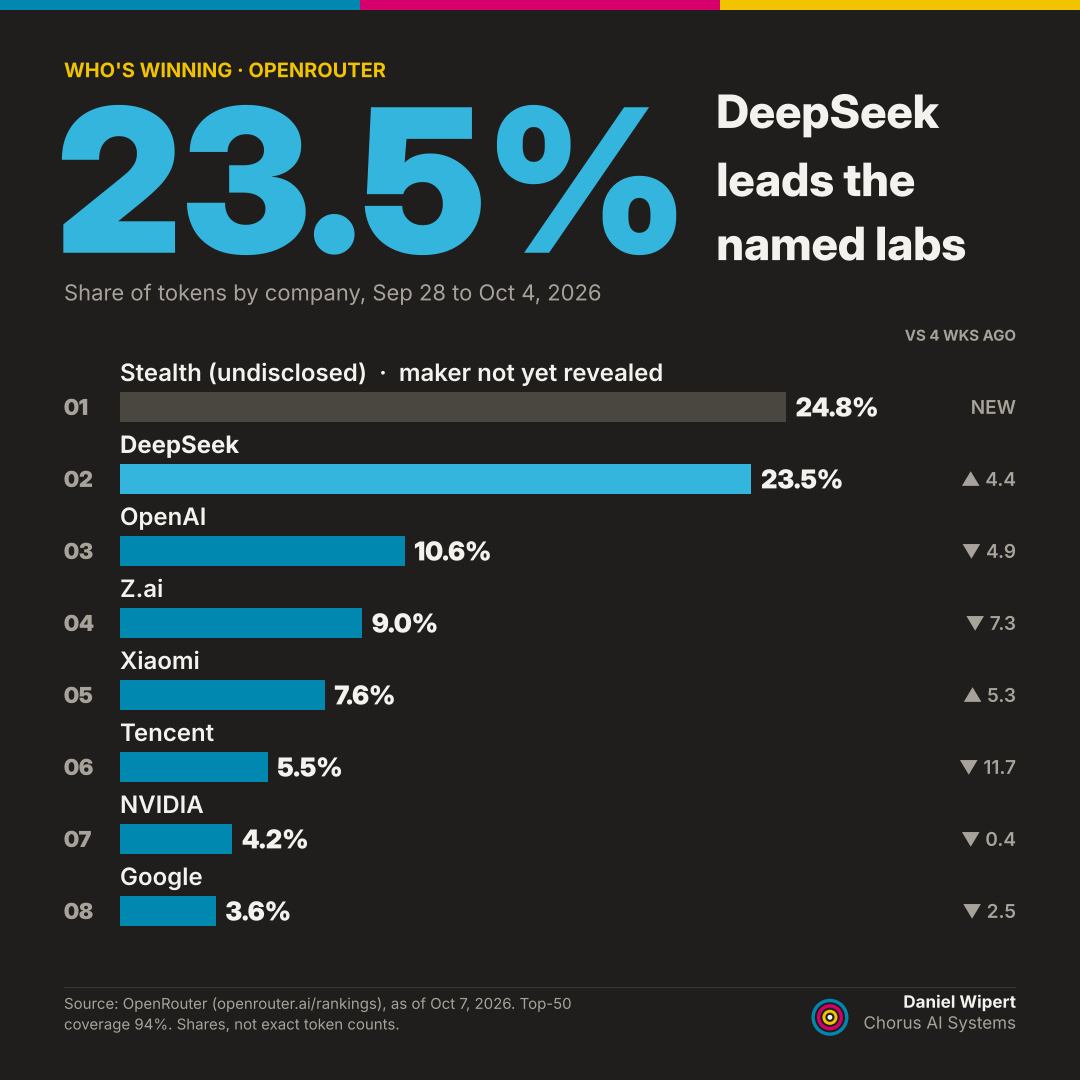
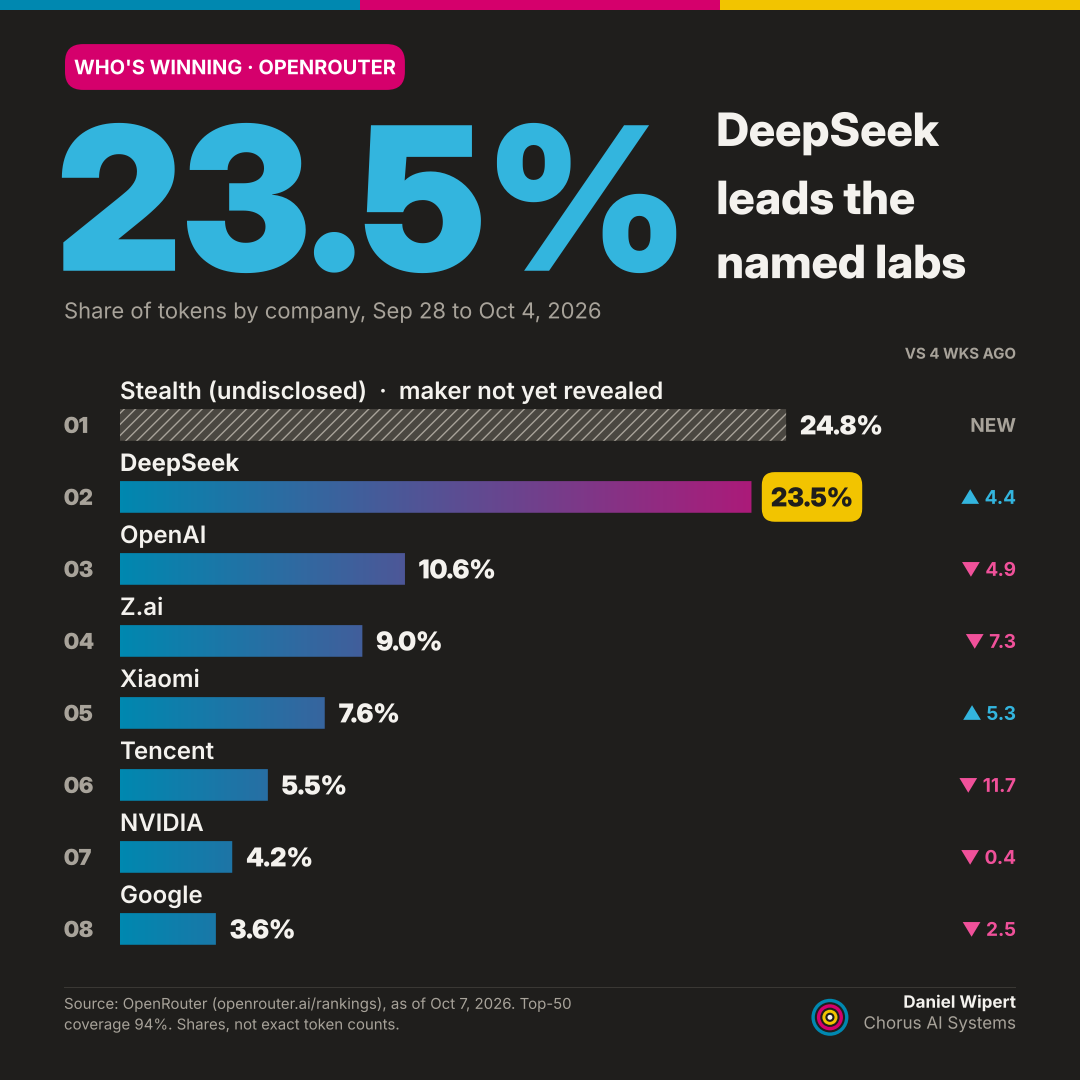
Color pass on the charts
Open band as a Chorus blue gradient, closed band in Chorus yellow (deeper
gold on the light theme), pill labels for end values and the kicker,
charcoal header block on the light theme. Leaderboard: blue-to-magenta
gradient bars, hatched stealth bar, leader value in a pill, colored up/down
arrows. All pairs pass the color-blind check.

Claude-Session: https://claude.ai/code/session_01Hjp52GNvqdFoEAL6w7QVr9

diff --git a/charts/share.py b/charts/share.py
@@ -4,7 +4,10 @@ Phase 1 draws weights: open-weight on the bottom, closed-weight on top,
 with a dashed 50% line. Stealth models are left out of the split.
 """
 
+import matplotlib.dates as mdates
+import numpy as np
 import pandas as pd
+from matplotlib.colors import LinearSegmentedColormap
 
 from charts.frame import Frame, pt
 
@@ -30,7 +33,7 @@ def month_ticks(ax, start, end, frame):
     months = months[months >= start]
     labels = [m.strftime("%b\n%Y") if (m.month == 1 or i == 0) else m.strftime("%b")
               for i, m in enumerate(months)]
-    ax.set_xticks(months, labels)
+    ax.set_xticks(mdates.date2num(months), labels)
     for label in ax.get_xticklabels():
         label.set_fontproperties(frame.font("regular", frame.sizes["axis"]))
         label.set_color(frame.colors["text_muted"])
@@ -38,11 +41,13 @@ def month_ticks(ax, start, end, frame):
 
 
 def callout(ax, frame, xy, text, offset, ha):
-    """Annotation with a thin leader line, in the text color."""
+    """Annotation with a thin leader line. It sits on the closed band, so it uses
+    the ink color that reads on that band."""
+    ink = frame.colors["closed_pill"][1]
     ax.annotate(text, xy, xytext=offset, textcoords="offset points", ha=ha, va="bottom",
-                color=frame.colors["text"], linespacing=1.2,
-                fontproperties=frame.font("semibold", frame.sizes["callout"]),
-                arrowprops={"arrowstyle": "-", "color": frame.colors["text"], "lw": 1,
+                color=ink, linespacing=1.2,
+                fontproperties=frame.font("bold", frame.sizes["callout"]),
+                arrowprops={"arrowstyle": "-", "color": ink, "lw": 1.2,
                             "shrinkA": 4, "shrinkB": 8})
 
 
@@ -62,41 +67,52 @@ def render(weekly, footer_text, style, size):
     frame.footer(footer_text)
     ax = frame.chart_area(left_px=0, right_px=style["layout"]["end_label_space"], below_px=70)
 
-    ax.stackplot(x, open_, closed, colors=[colors["open"], colors["closed"]], linewidth=0)
-    ax.plot(x, open_, color=colors["background"], linewidth=2.5)  # gap between bands
-    ax.axhline(0.5, color=colors["reference_line"], linewidth=1.2, linestyle=(0, (5, 4)),
-               alpha=0.8)
-    ax.text(x[0], 0.5, " 50%", va="bottom", ha="left", color=colors["text"],
+    xn = mdates.date2num(x)
+    ax.fill_between(xn, open_, 1, color=colors["closed"], linewidth=0)
+    # Open band: vertical gradient, clipped to the area under the open line
+    shape = ax.fill_between(xn, 0, open_, color="none", linewidth=0)
+    ramp = LinearSegmentedColormap.from_list("open", colors["open_gradient"])
+    image = ax.imshow(np.linspace(0, 1, 256).reshape(-1, 1), cmap=ramp, origin="lower",
+                      extent=[xn[0], xn[-1], 0, 1], aspect="auto", zorder=1)
+    image.set_clip_path(shape.get_paths()[0], transform=ax.transData)
+    ax.plot(xn, open_, color=colors["background"], linewidth=2.5, zorder=2)
+    ink = colors["closed_pill"][1]  # reads on the closed band
+    ax.axhline(0.5, color=ink, linewidth=1.2, linestyle=(0, (5, 4)), alpha=0.8, zorder=3)
+    ax.text(xn[0], 0.5, " 50%", va="bottom", ha="left", color=ink, zorder=3,
             fontproperties=frame.font("semibold", sizes["axis"]))
 
-    ax.set_xlim(x[0], x[-1])
+    ax.set_xlim(xn[0], xn[-1])
     ax.set_ylim(0, 1)
     ax.set_yticks([])
     month_ticks(ax, x[0], x[-1], frame)
 
-    # End labels: latest share of each band at its right edge
+    # End labels: latest share of each band in a pill at its right edge
     edge = ax.get_yaxis_transform()
-    for name, mid, value, color in [
-            (text["open"], open_.iloc[-1] / 2, open_.iloc[-1], colors["open_label"]),
+    for name, mid, value, (fill, ink) in [
+            (text["open"], open_.iloc[-1] / 2, open_.iloc[-1], colors["open_pill"]),
             (text["closed"], open_.iloc[-1] + closed.iloc[-1] / 2, closed.iloc[-1],
-             colors["closed_label"])]:
-        ax.text(1.04, mid + 0.02, f"{value:.0%}", transform=edge, va="bottom", ha="left",
-                color=color, fontproperties=frame.font("hero", sizes["end_label"] * 1.4))
-        ax.text(1.04, mid, name.upper(), transform=edge, va="top", ha="left", color=color,
-                fontproperties=frame.font("bold", sizes["kicker"]))
+             colors["closed_pill"])]:
+        ax.text(1.05, mid, f"{value:.0%}\n{name.upper()}", transform=edge, va="center",
+                ha="left", color=ink, linespacing=1.0, multialignment="left",
+                fontproperties=frame.font("hero", sizes["end_label"]),
+                bbox={"boxstyle": "round,pad=0.5,rounding_size=0.6", "facecolor": fill,
+                      "edgecolor": "none"})
 
     # Crossover: magenta dot where open passed 50% for good, with a callout
     week = lasting_crossover(open_)
     if week is not None:
+        week = mdates.date2num(week)
         ax.plot([week], [0.5], "o", markersize=pt(18), color=colors["accent"],
                 markeredgecolor=colors["background"], markeredgewidth=2.5, zorder=5)
         callout(ax, frame, (week, 0.5),
-                text["crossover"].format(date=week.strftime("%b %-d")), (-30, 70), "right")
+                text["crossover"].format(date=mdates.num2date(week).strftime("%b %-d")),
+                (-30, 70), "right")
 
     # Peak: the highest open share in the window
     peak_week = open_.idxmax()
     if peak_week != x[-1]:
-        ax.plot([peak_week], [open_.max()], "o", markersize=pt(10), color=colors["text"],
+        peak_week = mdates.date2num(peak_week)
+        ax.plot([peak_week], [open_.max()], "o", markersize=pt(10), color=ink,
                 zorder=5)
         callout(ax, frame, (peak_week, open_.max()),
                 text["peak"].format(share=round(open_.max() * 100)), (0, 34), "center")

diff --git a/charts/leaderboard.py b/charts/leaderboard.py
@@ -2,7 +2,10 @@
 4 weeks earlier (spec, "Content library"). Phase 1 draws company.
 """
 
+import numpy as np
 import pandas as pd
+from matplotlib.colors import LinearSegmentedColormap
+from matplotlib.patches import FancyBboxPatch
 
 from charts.frame import Frame
 
@@ -68,23 +71,45 @@ def render(weekly, footer_text, style, size):
 
     ax.text(right, -0.75, text["change_header"], transform=edge, ha="right", va="bottom",
             color=colors["text_muted"], fontproperties=frame.font("bold", sizes["footer"]))
+    ramp = LinearSegmentedColormap.from_list("bars", colors["bar_gradient"])
+    gradient = np.linspace(0, 1, 256).reshape(1, -1)
+    xmax = ax.get_xlim()[1]
     for i, row in rows.iterrows():
         is_top = row["value"] == top["value"]
         is_stealth = row["value"] == STEALTH
-        color = (colors["bar_muted"] if is_stealth else
-                 colors["bar_lead"] if is_top else colors["bar"])
-        ax.barh(i + 0.12, row["share"], height=0.42, color=color, linewidth=0)
+        y, h = i + 0.12, 0.44
+        bar = FancyBboxPatch((0, y - h / 2), row["share"], h, mutation_aspect=0.05,
+                             boxstyle="round,pad=0,rounding_size=0.004", linewidth=0,
+                             facecolor=colors["bar_muted"] if is_stealth else "none",
+                             hatch="///" if is_stealth else None,
+                             edgecolor=colors["text_muted"] if is_stealth else "none")
+        ax.add_patch(bar)
+        if not is_stealth:  # blue -> magenta across the full width, clipped to the bar
+            image = ax.imshow(gradient, cmap=ramp, extent=[0, xmax, y - h / 2, y + h / 2],
+                              aspect="auto", zorder=2)
+            image.set_clip_path(bar)
         # Rank number, name above the bar, value at its end, change at the right
-        ax.text(-56 / ax.bbox.width, i + 0.12, f"{i + 1:02d}", transform=edge, ha="left",
+        ax.text(-56 / ax.bbox.width, y, f"{i + 1:02d}", transform=edge, ha="left",
                 va="center", color=colors["text_muted"],
                 fontproperties=frame.font("hero", sizes["rank"]))
         name = row["value"] + (f"  ·  {text['stealth_note']}" if is_stealth else "")
         ax.text(0, i - 0.16, name, ha="left", va="bottom", color=colors["text"],
                 fontproperties=frame.font("bold" if is_top else "semibold",
                                           sizes["bar_label"]))
-        ax.text(row["share"], i + 0.12, f"  {row['share']:.1%}", ha="left", va="center",
-                color=colors["text"], fontproperties=frame.font("hero", sizes["bar_value"]))
-        ax.text(right, i + 0.12, change_text((row["share"] - row["before"]) * 100),
-                transform=edge, ha="right", va="center", color=colors["text_muted"],
-                fontproperties=frame.font("semibold", sizes["axis"]))
+        value = {"ha": "left", "va": "center", "fontproperties":
+                 frame.font("hero", sizes["bar_value"]), "zorder": 4}
+        if is_top:
+            fill, ink = colors["lead_pill"]
+            ax.annotate(f"{row['share']:.1%}", (row["share"], y), xytext=(14, 0),
+                        textcoords="offset points", color=ink, **value,
+                        bbox={"boxstyle": "round,pad=0.35,rounding_size=0.5",
+                              "facecolor": fill, "edgecolor": "none"})
+        else:
+            ax.annotate(f"{row['share']:.1%}", (row["share"], y), xytext=(10, 0),
+                        textcoords="offset points", color=colors["text"], **value)
+        points = (row["share"] - row["before"]) * 100
+        ax.text(right, y, change_text(points), transform=edge, ha="right", va="center",
+                color=(colors["text_muted"] if pd.isna(points) or round(points, 1) == 0 else
+                       colors["up"] if points > 0 else colors["down"]),
+                fontproperties=frame.font("bold", sizes["axis"]))
     return frame

diff --git a/charts/frame.py b/charts/frame.py
@@ -64,10 +64,10 @@ class Frame:
     def width_of(self, artist):
         return artist.get_window_extent(self.renderer).width
 
-    def _rect(self, x, y, w, h, color):
+    def _rect(self, x, y, w, h, color, zorder=1):
         self.fig.add_artist(Rectangle((x / self.width, y / self.height), w / self.width,
                                       h / self.height, transform=self.fig.transFigure,
-                                      color=color, linewidth=0))
+                                      color=color, linewidth=0, zorder=zorder))
 
     def _stripe(self):
         """The Chorus color stripe across the top edge."""
@@ -80,11 +80,13 @@ class Frame:
     # --- top block -------------------------------------------------------------
 
     def kicker(self, text):
-        """Small all-caps label above the headline."""
+        """Small all-caps label in a colored pill above the headline."""
         size = self.sizes["kicker"]
-        self.text(self.margin["left"], self.cursor, text, "bold", size, self.colors["kicker"],
-                  va="top")
-        self.cursor -= size * LINE_HEIGHT + 4
+        self.text(self.margin["left"] + 10, self.cursor - size * 0.55, text, "bold", size,
+                  self.colors["kicker_text"], va="center",
+                  bbox={"boxstyle": "round,pad=0.45,rounding_size=0.9",
+                        "facecolor": self.colors["kicker_fill"], "edgecolor": "none"})
+        self.cursor -= size * LINE_HEIGHT + 22
 
     def hero(self, number, headline):
         """A huge number with the headline set beside it."""
@@ -103,22 +105,21 @@ class Frame:
         block = len(lines) * hsize * LINE_HEIGHT
         cap_mid = self.cursor - size * 0.40  # middle of the number's digits
         self.text(x, cap_mid + block / 2, "\n".join(lines), "display", hsize,
-                  self.colors["text"], va="top")
+                  self.colors["header_text"], va="top")
         self.cursor -= size * 0.95
 
-    def headline(self, text):
-        size = self.sizes["headline"]
-        lines = textwrap.wrap(text, 34)
-        self.text(self.margin["left"], self.cursor, "\n".join(lines), "display", size,
-                  self.colors["text"], va="top")
-        self.cursor -= len(lines) * size * LINE_HEIGHT + 12
-
     def subtitle(self, text):
+        """Subtitle, then the color block behind the whole top section (if the theme has one)."""
         size = self.sizes["subtitle"]
         self.cursor -= 6
         self.text(self.margin["left"], self.cursor, text, "regular", size,
-                  self.colors["text_muted"], va="top")
-        self.cursor -= size * LINE_HEIGHT + self.style["layout"]["gap_after_subtitle"]
+                  self.colors["header_muted"], va="top")
+        self.cursor -= size * LINE_HEIGHT
+        if self.colors.get("header_panel"):
+            self.cursor -= 30
+            self._rect(0, self.cursor, self.width, self.height - self.cursor,
+                       self.colors["header_panel"], zorder=-1)
+        self.cursor -= self.style["layout"]["gap_after_subtitle"]
 
     # --- chart and footer --------------------------------------------------------
 

diff --git a/planning/Spec_Weekly_OpenRouter_Usage_Breakdown_v3_final.md b/planning/Spec_Weekly_OpenRouter_Usage_Breakdown_v3_final.md
@@ -170,7 +170,14 @@ The main chart is a 100% stacked area of weekly token share: open-weight on the 
 - Callouts with thin leader lines on the chart: the 50% crossover (magenta dot) and the peak.
 - Minimal axes: no y-axis; a labeled dashed 50% line; month labels only.
 - Footer: source line on the left; the Chorus ring mark with "Daniel Wipert / Chorus AI Systems" on the right.
-- Two themes in `style.yaml`: **dark** (charcoal background, cream text, grey closed band `#4A4741`) and **light** (cream background). The `theme:` line picks one.
+- Two themes in `style.yaml`: **dark** (charcoal background, cream text) and **light** (cream background with a charcoal header block). The `theme:` line picks one.
+
+**Color pass (Oct 7, 2026):** Dan asked for more color, still sleek and very clear. This replaces "one strong, one muted":
+
+- Open band: Chorus blue as a vertical gradient (dark at the bottom, bright at the top). Closed band: Chorus yellow `#F2C400` (dark theme) or deeper gold `#DDA600` (light theme; brand yellow is too pale on cream). Blue vs yellow is the most color-blind-safe pair (ΔE 24-30 in every color-blindness simulation).
+- End values sit in pills filled with their band color; the kicker is a magenta (dark) or yellow (light) pill.
+- Notes on the chart, the 50% line and its label are charcoal, so they read on the yellow band.
+- Leaderboard bars use a blue-to-magenta gradient across the full width (longer bars reach further into magenta). The stealth bar is hatched grey. The leading named company's value sits in a yellow (dark) or charcoal (light) pill. Up/down arrows are blue/pink and always carry the ▲/▼ symbol, so the color is never the only cue.
 - Leaderboard: top 8, rank numbers, the name above each thick bar, the value at the bar's end, the change at the right; the leading named company is highlighted.
 
 **Company leaderboard (step 6):** top companies for the latest week, largest first, with the change in share points vs 4 weeks earlier ("new" if the company had no share then). "Stealth (undisclosed)" is a grey bar. If stealth is #1, the headline names the top named lab instead ("DeepSeek leads named labs on OpenRouter with 23.5% of tokens"). Headline numbers match the bar labels.
